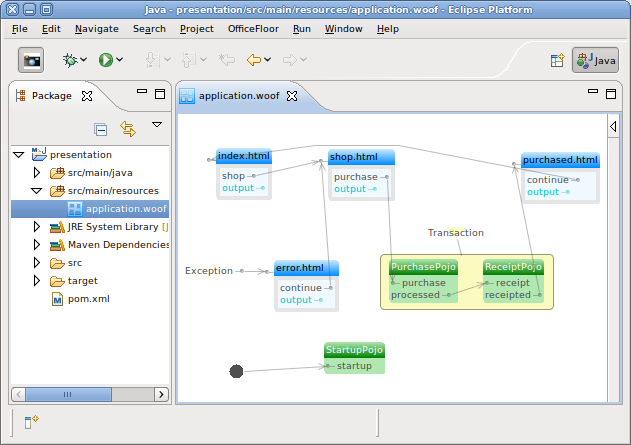
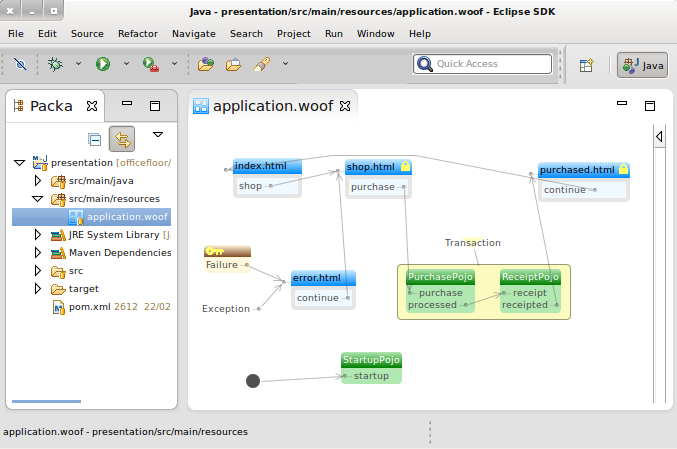
Tidying up landing page and configuration image.

diff --git a/officefloor/trunk/src/site/resources/index.html b/officefloor/trunk/src/site/resources/index.html
@@ -121,7 +121,7 @@ iframe {
 			</p>
 		</td>
 
-		<td style="width: 400px; height: 100%; padding: 3em 1em 1em 1em; vertical-align: top">
+		<td style="width: 550px; height: 100%; padding: 1em; vertical-align: top">
 			<img style="width: 100%" src="./images/landing_application_woof.png" alt="Example OfficeFloor Graphical Configuration" />
 			<br />
 			<br />
